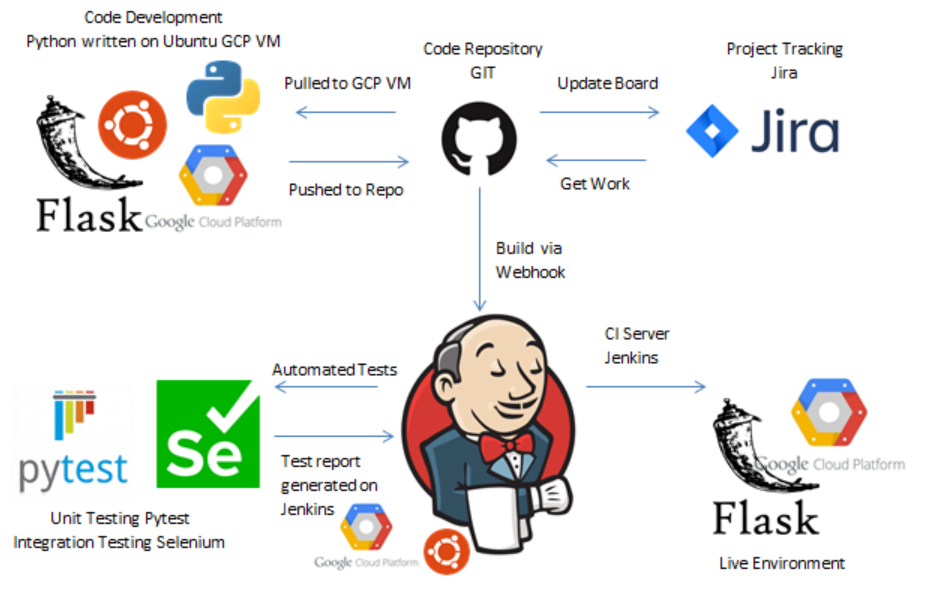
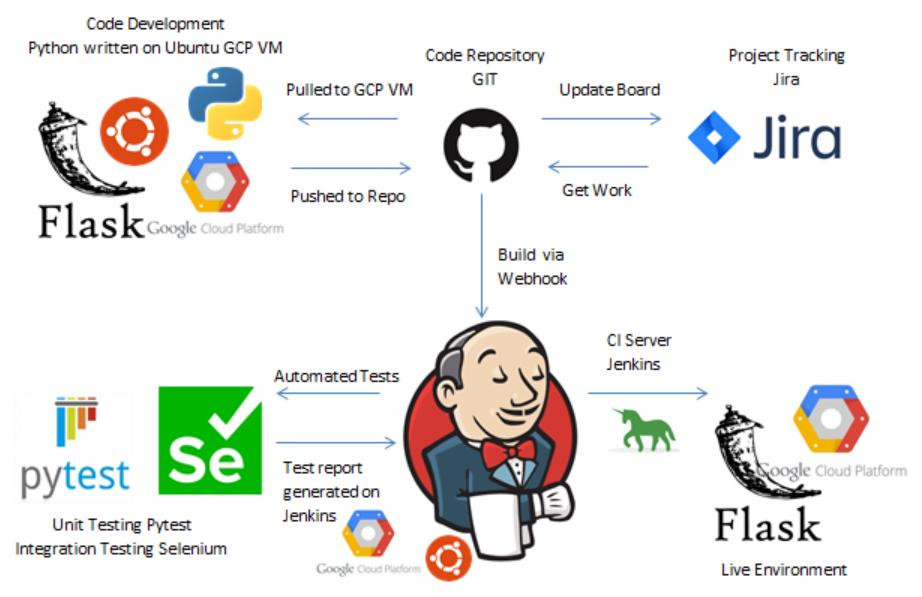
updating README.md

diff --git a/README.md b/README.md
@@ -49,16 +49,22 @@ To achieve our objective I decided my set list app must allow the user to do the
 ## Project Tracking <a name="projecttracking"></a>
 
 To manage my project I needed a project tracker, I decided on using Jira software to manage my project.
+
 ![Kanban Borad](images/Jira1.png)
+
 Using it allowed me to break my project down into smaller more manageable tasks. My next point was to define user stories which would allow me to implement MoSCoW prioritization.  I placed all my must have user stories in the must have user stories section while putting the could haves in the product back log.
+
 ![Kanban Board](images/Jira2.png)
+
 For my project to be successful using agile methodologies I would build my first sprint around developing an app based around 1 user using the must have user stories. 
 
 
 ## Database Structure <a name="databasestructure"></a>
 
-Below is an entity relationship diagram showing the structure of the database for the first iteration. 
+Below is an entity relationship diagram showing the structure of the database for the first iteration.
+
 ![Entity Relationship Diagram](images/ERD.png)
+
 This schema was achieved by using python code written out in my models file and used Flask SQLAlchemy to configure the application with the SQL instance, Google Cloud Provider (GCP) provided this database instance.
 
 A link table had to be included for this schema to function due to the nature of the many to many relationship between the Songs and Set List table. This Table would turn this relationship from a many-to-many to two one to many relationships.
@@ -66,19 +72,22 @@ A link table had to be included for this schema to function due to the nature of
 This database would satisfy the requirements of this project however I have included the ER diagram for when I wish to incorporate other users for later sprints.
 
 I have included below an ERD for when I wish to add user log in to my project in future builds
+
 ![Entity Relationship Diagram](images/ERD2.png)
 
 ## Risk Assessment <a name="riskassessment"></a>
 
 The risk assessment can be found through the following link: https://docs.google.com/spreadsheets/d/1KQy9YNJtbZnqxqxCt1PdwelUX8IMVnbsUkg1c1bSYK4/edit?usp=sharing
+
 ![Risk Assessment](images/Riskassessment.png)
 
 ## Continious Integration Pipeline <a name="cipipeline"></a>
 
 ![CI Pipeline](images/CIpipeline.PNG)
+
 Pictured above is my continuous integration pipeline. This will allow for a simple deployment of my application as when new code is pushed to git hub a Jenkins web hook installed on my Google Cloud Platform Ubuntnu VM with automatically build my application.
 
-The webhook will initally run my unit tests and integration tests which are run from the repository using pytest. Providing the application passes these tests it will get built.
+The webhook will initally run my unit tests and integration tests which are run from the repository using pytest. Providing the application passes these tests it will get built with Gunicorn acting as my Web Service Gateway Interface server.
 
 
 ## Testing <a name="testing"></a>
@@ -86,6 +95,7 @@ The webhook will initally run my unit tests and integration tests which are run 
 Pytest was used to run unit tests on the application. These tests were designed to test certain functionality on the application and would have an expaected result for each test run. My integration testing would be run by selenium and also triggered by pytest and run on chromium browser which is installed on my GPC VM. These tests would be run automatically by Jenkins anytime that new code is pushed to my github repository and would trigger another Jenkins build upon sucessful completion.
 
 Pytest will also provide me with a coverage report which will let me know how much of the code has been tested sucessfully. I managed to get the coverage to 85% this could have been improved upon but due to time constraints I decieded this was enough for the requirements of the project. Please see my coverage report below.
+
 ![Coverage Report](images/Coverage.png)
 
 ## Front End Design <a name="frontend"></a>
@@ -93,18 +103,23 @@ Pytest will also provide me with a coverage report which will let me know how mu
 The front end of this application is quite simple at this stage built by very simple html combined with Jinja2 logic to allow it to communicate with the back-end python files.
 
 User is brought to this page when they try and access the application
+
 ![Home Page](images/Home.PNG)
 
 User can then add songs to their song bank
+
 ![Add Song Bank Page](images/Addtosongbank.png)
 
 Users can view their song bank and edit or delete songs from ther song bank here
+
 ![Song Bank Page](images/Songbank.png)
 
 Users can create a blank setlist then view the setlist, edit the set name and delete the set.
+
 ![View Edit Delete Set](images/ViewEditDelete.png)
 
 User can use this page to combine songs with their setlist then once the songs are added they can view the set on the previous screen
+
 ![Combine Set and Song](images/Addsetsong.png)
 
 
@@ -121,7 +136,7 @@ The future improvements I would like to try with this project are as following:
 
 * Including functionality which will allow songs to be arranged by bpm
 * Including functionality which will allow songs to be matched by key
-* Asthetic overhaul on front end presentation
+* Aesthetictic overhaul on front end presentation
 * Allow for mulitple users with an account system
 * Changing int input for drop down selection on the page which allows songs and set to be combined
 * Implementing application as systemd service
